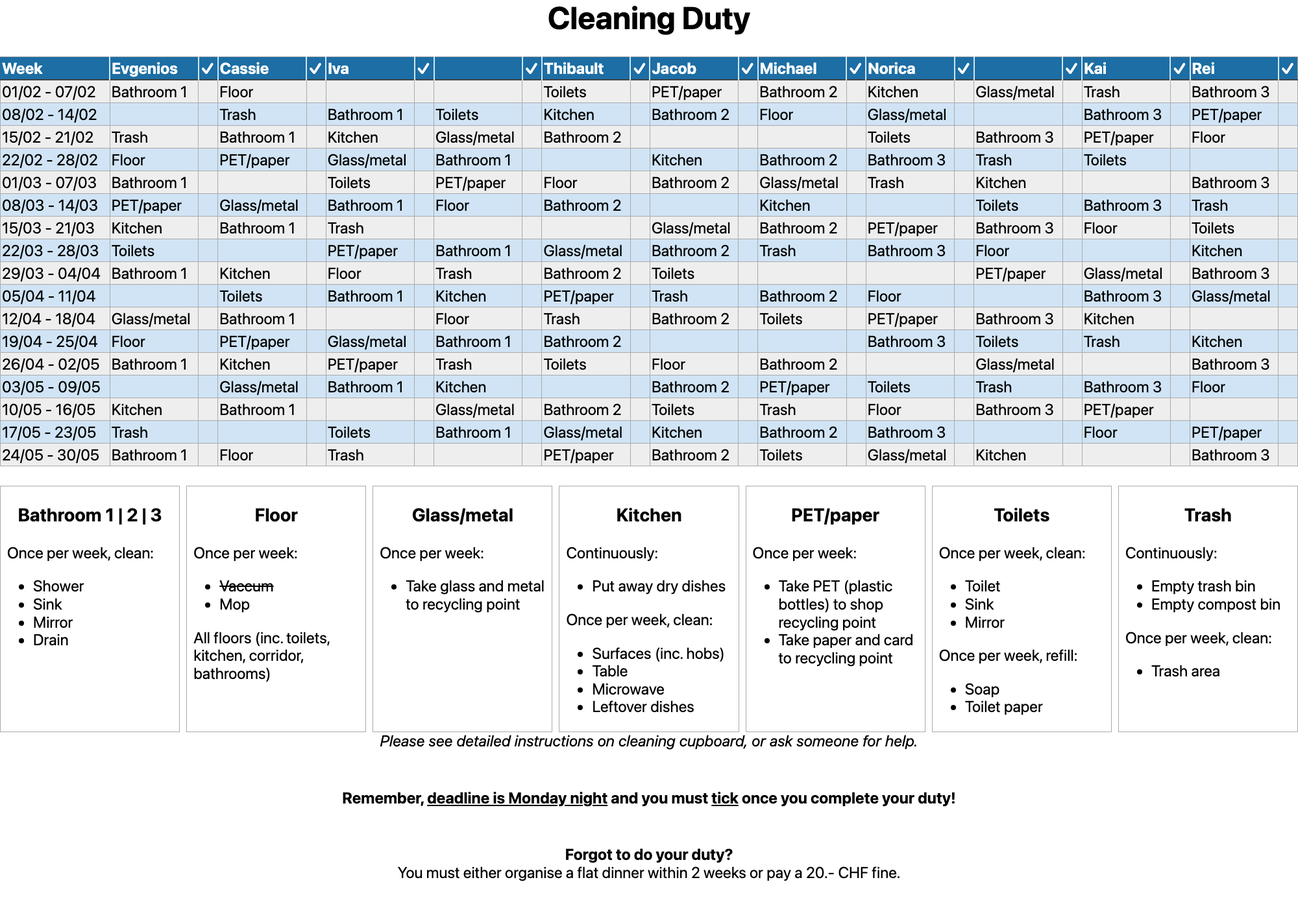
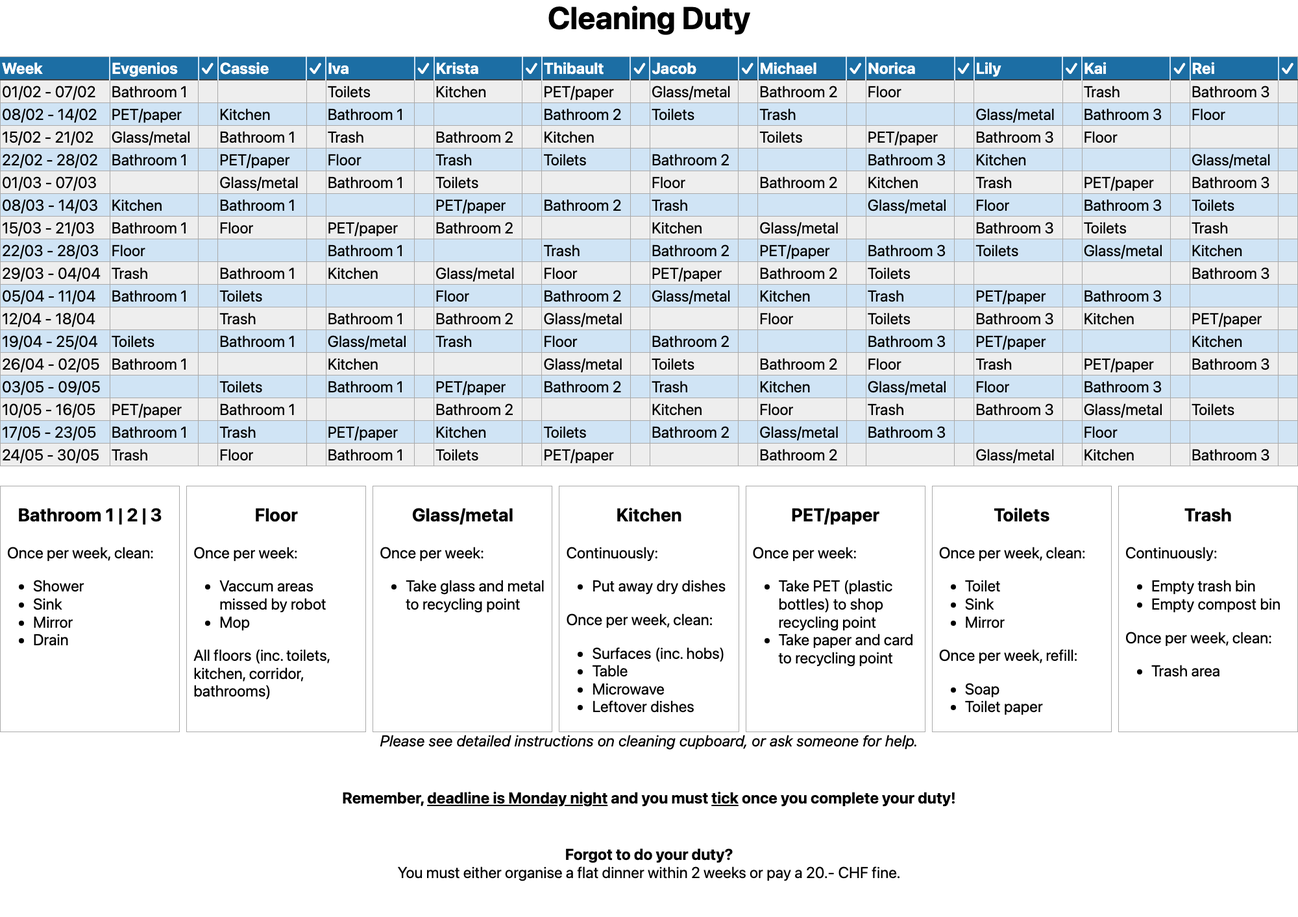
Add new flatmates

diff --git a/cleaning_duty.html b/cleaning_duty.html
@@ -4,26 +4,26 @@
 <body>
 <h1>Cleaning Duty</h1><table>
 <thead>
-<tr><th>Week         </th><th>Evgenios   </th><th>✓  </th><th>Cassie     </th><th>✓  </th><th>Iva        </th><th>✓  </th><th>           </th><th>✓  </th><th>Thibault   </th><th>✓  </th><th>Jacob      </th><th>✓  </th><th>Michael    </th><th>✓  </th><th>Norica     </th><th>✓  </th><th>           </th><th>✓  </th><th>Kai        </th><th>✓  </th><th>Rei        </th><th>✓  </th></tr>
+<tr><th>Week         </th><th>Evgenios   </th><th>✓  </th><th>Cassie     </th><th>✓  </th><th>Iva        </th><th>✓  </th><th>Krista     </th><th>✓  </th><th>Thibault   </th><th>✓  </th><th>Jacob      </th><th>✓  </th><th>Michael    </th><th>✓  </th><th>Norica     </th><th>✓  </th><th>Lily       </th><th>✓  </th><th>Kai        </th><th>✓  </th><th>Rei        </th><th>✓  </th></tr>
 </thead>
 <tbody>
-<tr><td>01/02 - 07/02</td><td>Bathroom 1 </td><td>   </td><td>Floor      </td><td>   </td><td>           </td><td>   </td><td>           </td><td>   </td><td>Toilets    </td><td>   </td><td>PET/paper  </td><td>   </td><td>Bathroom 2 </td><td>   </td><td>Kitchen    </td><td>   </td><td>Glass/metal</td><td>   </td><td>Trash      </td><td>   </td><td>Bathroom 3 </td><td>   </td></tr>
-<tr><td>08/02 - 14/02</td><td>           </td><td>   </td><td>Trash      </td><td>   </td><td>Bathroom 1 </td><td>   </td><td>Toilets    </td><td>   </td><td>Kitchen    </td><td>   </td><td>Bathroom 2 </td><td>   </td><td>Floor      </td><td>   </td><td>Glass/metal</td><td>   </td><td>           </td><td>   </td><td>Bathroom 3 </td><td>   </td><td>PET/paper  </td><td>   </td></tr>
-<tr><td>15/02 - 21/02</td><td>Trash      </td><td>   </td><td>Bathroom 1 </td><td>   </td><td>Kitchen    </td><td>   </td><td>Glass/metal</td><td>   </td><td>Bathroom 2 </td><td>   </td><td>           </td><td>   </td><td>           </td><td>   </td><td>Toilets    </td><td>   </td><td>Bathroom 3 </td><td>   </td><td>PET/paper  </td><td>   </td><td>Floor      </td><td>   </td></tr>
-<tr><td>22/02 - 28/02</td><td>Floor      </td><td>   </td><td>PET/paper  </td><td>   </td><td>Glass/metal</td><td>   </td><td>Bathroom 1 </td><td>   </td><td>           </td><td>   </td><td>Kitchen    </td><td>   </td><td>Bathroom 2 </td><td>   </td><td>Bathroom 3 </td><td>   </td><td>Trash      </td><td>   </td><td>Toilets    </td><td>   </td><td>           </td><td>   </td></tr>
-<tr><td>01/03 - 07/03</td><td>Bathroom 1 </td><td>   </td><td>           </td><td>   </td><td>Toilets    </td><td>   </td><td>PET/paper  </td><td>   </td><td>Floor      </td><td>   </td><td>Bathroom 2 </td><td>   </td><td>Glass/metal</td><td>   </td><td>Trash      </td><td>   </td><td>Kitchen    </td><td>   </td><td>           </td><td>   </td><td>Bathroom 3 </td><td>   </td></tr>
-<tr><td>08/03 - 14/03</td><td>PET/paper  </td><td>   </td><td>Glass/metal</td><td>   </td><td>Bathroom 1 </td><td>   </td><td>Floor      </td><td>   </td><td>Bathroom 2 </td><td>   </td><td>           </td><td>   </td><td>Kitchen    </td><td>   </td><td>           </td><td>   </td><td>Toilets    </td><td>   </td><td>Bathroom 3 </td><td>   </td><td>Trash      </td><td>   </td></tr>
-<tr><td>15/03 - 21/03</td><td>Kitchen    </td><td>   </td><td>Bathroom 1 </td><td>   </td><td>Trash      </td><td>   </td><td>           </td><td>   </td><td>           </td><td>   </td><td>Glass/metal</td><td>   </td><td>Bathroom 2 </td><td>   </td><td>PET/paper  </td><td>   </td><td>Bathroom 3 </td><td>   </td><td>Floor      </td><td>   </td><td>Toilets    </td><td>   </td></tr>
-<tr><td>22/03 - 28/03</td><td>Toilets    </td><td>   </td><td>           </td><td>   </td><td>PET/paper  </td><td>   </td><td>Bathroom 1 </td><td>   </td><td>Glass/metal</td><td>   </td><td>Bathroom 2 </td><td>   </td><td>Trash      </td><td>   </td><td>Bathroom 3 </td><td>   </td><td>Floor      </td><td>   </td><td>           </td><td>   </td><td>Kitchen    </td><td>   </td></tr>
-<tr><td>29/03 - 04/04</td><td>Bathroom 1 </td><td>   </td><td>Kitchen    </td><td>   </td><td>Floor      </td><td>   </td><td>Trash      </td><td>   </td><td>Bathroom 2 </td><td>   </td><td>Toilets    </td><td>   </td><td>           </td><td>   </td><td>           </td><td>   </td><td>PET/paper  </td><td>   </td><td>Glass/metal</td><td>   </td><td>Bathroom 3 </td><td>   </td></tr>
-<tr><td>05/04 - 11/04</td><td>           </td><td>   </td><td>Toilets    </td><td>   </td><td>Bathroom 1 </td><td>   </td><td>Kitchen    </td><td>   </td><td>PET/paper  </td><td>   </td><td>Trash      </td><td>   </td><td>Bathroom 2 </td><td>   </td><td>Floor      </td><td>   </td><td>           </td><td>   </td><td>Bathroom 3 </td><td>   </td><td>Glass/metal</td><td>   </td></tr>
-<tr><td>12/04 - 18/04</td><td>Glass/metal</td><td>   </td><td>Bathroom 1 </td><td>   </td><td>           </td><td>   </td><td>Floor      </td><td>   </td><td>Trash      </td><td>   </td><td>Bathroom 2 </td><td>   </td><td>Toilets    </td><td>   </td><td>PET/paper  </td><td>   </td><td>Bathroom 3 </td><td>   </td><td>Kitchen    </td><td>   </td><td>           </td><td>   </td></tr>
-<tr><td>19/04 - 25/04</td><td>Floor      </td><td>   </td><td>PET/paper  </td><td>   </td><td>Glass/metal</td><td>   </td><td>Bathroom 1 </td><td>   </td><td>Bathroom 2 </td><td>   </td><td>           </td><td>   </td><td>           </td><td>   </td><td>Bathroom 3 </td><td>   </td><td>Toilets    </td><td>   </td><td>Trash      </td><td>   </td><td>Kitchen    </td><td>   </td></tr>
-<tr><td>26/04 - 02/05</td><td>Bathroom 1 </td><td>   </td><td>Kitchen    </td><td>   </td><td>PET/paper  </td><td>   </td><td>Trash      </td><td>   </td><td>Toilets    </td><td>   </td><td>Floor      </td><td>   </td><td>Bathroom 2 </td><td>   </td><td>           </td><td>   </td><td>Glass/metal</td><td>   </td><td>           </td><td>   </td><td>Bathroom 3 </td><td>   </td></tr>
-<tr><td>03/05 - 09/05</td><td>           </td><td>   </td><td>Glass/metal</td><td>   </td><td>Bathroom 1 </td><td>   </td><td>Kitchen    </td><td>   </td><td>           </td><td>   </td><td>Bathroom 2 </td><td>   </td><td>PET/paper  </td><td>   </td><td>Toilets    </td><td>   </td><td>Trash      </td><td>   </td><td>Bathroom 3 </td><td>   </td><td>Floor      </td><td>   </td></tr>
-<tr><td>10/05 - 16/05</td><td>Kitchen    </td><td>   </td><td>Bathroom 1 </td><td>   </td><td>           </td><td>   </td><td>Glass/metal</td><td>   </td><td>Bathroom 2 </td><td>   </td><td>Toilets    </td><td>   </td><td>Trash      </td><td>   </td><td>Floor      </td><td>   </td><td>Bathroom 3 </td><td>   </td><td>PET/paper  </td><td>   </td><td>           </td><td>   </td></tr>
-<tr><td>17/05 - 23/05</td><td>Trash      </td><td>   </td><td>           </td><td>   </td><td>Toilets    </td><td>   </td><td>Bathroom 1 </td><td>   </td><td>Glass/metal</td><td>   </td><td>Kitchen    </td><td>   </td><td>Bathroom 2 </td><td>   </td><td>Bathroom 3 </td><td>   </td><td>           </td><td>   </td><td>Floor      </td><td>   </td><td>PET/paper  </td><td>   </td></tr>
-<tr><td>24/05 - 30/05</td><td>Bathroom 1 </td><td>   </td><td>Floor      </td><td>   </td><td>Trash      </td><td>   </td><td>           </td><td>   </td><td>PET/paper  </td><td>   </td><td>Bathroom 2 </td><td>   </td><td>Toilets    </td><td>   </td><td>Glass/metal</td><td>   </td><td>Kitchen    </td><td>   </td><td>           </td><td>   </td><td>Bathroom 3 </td><td>   </td></tr>
+<tr><td>01/02 - 07/02</td><td>Bathroom 1 </td><td>   </td><td>           </td><td>   </td><td>Toilets    </td><td>   </td><td>Kitchen    </td><td>   </td><td>PET/paper  </td><td>   </td><td>Glass/metal</td><td>   </td><td>Bathroom 2 </td><td>   </td><td>Floor      </td><td>   </td><td>           </td><td>   </td><td>Trash      </td><td>   </td><td>Bathroom 3 </td><td>   </td></tr>
+<tr><td>08/02 - 14/02</td><td>PET/paper  </td><td>   </td><td>Kitchen    </td><td>   </td><td>Bathroom 1 </td><td>   </td><td>           </td><td>   </td><td>Bathroom 2 </td><td>   </td><td>Toilets    </td><td>   </td><td>Trash      </td><td>   </td><td>           </td><td>   </td><td>Glass/metal</td><td>   </td><td>Bathroom 3 </td><td>   </td><td>Floor      </td><td>   </td></tr>
+<tr><td>15/02 - 21/02</td><td>Glass/metal</td><td>   </td><td>Bathroom 1 </td><td>   </td><td>Trash      </td><td>   </td><td>Bathroom 2 </td><td>   </td><td>Kitchen    </td><td>   </td><td>           </td><td>   </td><td>Toilets    </td><td>   </td><td>PET/paper  </td><td>   </td><td>Bathroom 3 </td><td>   </td><td>Floor      </td><td>   </td><td>           </td><td>   </td></tr>
+<tr><td>22/02 - 28/02</td><td>Bathroom 1 </td><td>   </td><td>PET/paper  </td><td>   </td><td>Floor      </td><td>   </td><td>Trash      </td><td>   </td><td>Toilets    </td><td>   </td><td>Bathroom 2 </td><td>   </td><td>           </td><td>   </td><td>Bathroom 3 </td><td>   </td><td>Kitchen    </td><td>   </td><td>           </td><td>   </td><td>Glass/metal</td><td>   </td></tr>
+<tr><td>01/03 - 07/03</td><td>           </td><td>   </td><td>Glass/metal</td><td>   </td><td>Bathroom 1 </td><td>   </td><td>Toilets    </td><td>   </td><td>           </td><td>   </td><td>Floor      </td><td>   </td><td>Bathroom 2 </td><td>   </td><td>Kitchen    </td><td>   </td><td>Trash      </td><td>   </td><td>PET/paper  </td><td>   </td><td>Bathroom 3 </td><td>   </td></tr>
+<tr><td>08/03 - 14/03</td><td>Kitchen    </td><td>   </td><td>Bathroom 1 </td><td>   </td><td>           </td><td>   </td><td>PET/paper  </td><td>   </td><td>Bathroom 2 </td><td>   </td><td>Trash      </td><td>   </td><td>           </td><td>   </td><td>Glass/metal</td><td>   </td><td>Floor      </td><td>   </td><td>Bathroom 3 </td><td>   </td><td>Toilets    </td><td>   </td></tr>
+<tr><td>15/03 - 21/03</td><td>Bathroom 1 </td><td>   </td><td>Floor      </td><td>   </td><td>PET/paper  </td><td>   </td><td>Bathroom 2 </td><td>   </td><td>           </td><td>   </td><td>Kitchen    </td><td>   </td><td>Glass/metal</td><td>   </td><td>           </td><td>   </td><td>Bathroom 3 </td><td>   </td><td>Toilets    </td><td>   </td><td>Trash      </td><td>   </td></tr>
+<tr><td>22/03 - 28/03</td><td>Floor      </td><td>   </td><td>           </td><td>   </td><td>Bathroom 1 </td><td>   </td><td>           </td><td>   </td><td>Trash      </td><td>   </td><td>Bathroom 2 </td><td>   </td><td>PET/paper  </td><td>   </td><td>Bathroom 3 </td><td>   </td><td>Toilets    </td><td>   </td><td>Glass/metal</td><td>   </td><td>Kitchen    </td><td>   </td></tr>
+<tr><td>29/03 - 04/04</td><td>Trash      </td><td>   </td><td>Bathroom 1 </td><td>   </td><td>Kitchen    </td><td>   </td><td>Glass/metal</td><td>   </td><td>Floor      </td><td>   </td><td>PET/paper  </td><td>   </td><td>Bathroom 2 </td><td>   </td><td>Toilets    </td><td>   </td><td>           </td><td>   </td><td>           </td><td>   </td><td>Bathroom 3 </td><td>   </td></tr>
+<tr><td>05/04 - 11/04</td><td>Bathroom 1 </td><td>   </td><td>Toilets    </td><td>   </td><td>           </td><td>   </td><td>Floor      </td><td>   </td><td>Bathroom 2 </td><td>   </td><td>Glass/metal</td><td>   </td><td>Kitchen    </td><td>   </td><td>Trash      </td><td>   </td><td>PET/paper  </td><td>   </td><td>Bathroom 3 </td><td>   </td><td>           </td><td>   </td></tr>
+<tr><td>12/04 - 18/04</td><td>           </td><td>   </td><td>Trash      </td><td>   </td><td>Bathroom 1 </td><td>   </td><td>Bathroom 2 </td><td>   </td><td>Glass/metal</td><td>   </td><td>           </td><td>   </td><td>Floor      </td><td>   </td><td>Toilets    </td><td>   </td><td>Bathroom 3 </td><td>   </td><td>Kitchen    </td><td>   </td><td>PET/paper  </td><td>   </td></tr>
+<tr><td>19/04 - 25/04</td><td>Toilets    </td><td>   </td><td>Bathroom 1 </td><td>   </td><td>Glass/metal</td><td>   </td><td>Trash      </td><td>   </td><td>Floor      </td><td>   </td><td>Bathroom 2 </td><td>   </td><td>           </td><td>   </td><td>Bathroom 3 </td><td>   </td><td>PET/paper  </td><td>   </td><td>           </td><td>   </td><td>Kitchen    </td><td>   </td></tr>
+<tr><td>26/04 - 02/05</td><td>Bathroom 1 </td><td>   </td><td>           </td><td>   </td><td>Kitchen    </td><td>   </td><td>           </td><td>   </td><td>Glass/metal</td><td>   </td><td>Toilets    </td><td>   </td><td>Bathroom 2 </td><td>   </td><td>Floor      </td><td>   </td><td>Trash      </td><td>   </td><td>PET/paper  </td><td>   </td><td>Bathroom 3 </td><td>   </td></tr>
+<tr><td>03/05 - 09/05</td><td>           </td><td>   </td><td>Toilets    </td><td>   </td><td>Bathroom 1 </td><td>   </td><td>PET/paper  </td><td>   </td><td>Bathroom 2 </td><td>   </td><td>Trash      </td><td>   </td><td>Kitchen    </td><td>   </td><td>Glass/metal</td><td>   </td><td>Floor      </td><td>   </td><td>Bathroom 3 </td><td>   </td><td>           </td><td>   </td></tr>
+<tr><td>10/05 - 16/05</td><td>PET/paper  </td><td>   </td><td>Bathroom 1 </td><td>   </td><td>           </td><td>   </td><td>Bathroom 2 </td><td>   </td><td>           </td><td>   </td><td>Kitchen    </td><td>   </td><td>Floor      </td><td>   </td><td>Trash      </td><td>   </td><td>Bathroom 3 </td><td>   </td><td>Glass/metal</td><td>   </td><td>Toilets    </td><td>   </td></tr>
+<tr><td>17/05 - 23/05</td><td>Bathroom 1 </td><td>   </td><td>Trash      </td><td>   </td><td>PET/paper  </td><td>   </td><td>Kitchen    </td><td>   </td><td>Toilets    </td><td>   </td><td>Bathroom 2 </td><td>   </td><td>Glass/metal</td><td>   </td><td>Bathroom 3 </td><td>   </td><td>           </td><td>   </td><td>Floor      </td><td>   </td><td>           </td><td>   </td></tr>
+<tr><td>24/05 - 30/05</td><td>Trash      </td><td>   </td><td>Floor      </td><td>   </td><td>Bathroom 1 </td><td>   </td><td>Toilets    </td><td>   </td><td>PET/paper  </td><td>   </td><td>           </td><td>   </td><td>Bathroom 2 </td><td>   </td><td>           </td><td>   </td><td>Glass/metal</td><td>   </td><td>Kitchen    </td><td>   </td><td>Bathroom 3 </td><td>   </td></tr>
 </tbody>
 </table>
 <div class="container">
@@ -41,7 +41,7 @@
 		<h3>Floor</h3>
 		<p>Once per week:</p>
 		<ul>
-			<li><s>Vaccum</s></li>
+			<li>Vaccum areas missed by robot</li>
 			<li>Mop</li>
 		</ul>
 		<p>All floors (inc. toilets, kitchen, corridor, bathrooms)</p>

diff --git a/html/table.html b/html/table.html
@@ -1,24 +1,24 @@
 <table>
 <thead>
-<tr><th>Week         </th><th>Evgenios   </th><th>✓  </th><th>Cassie     </th><th>✓  </th><th>Iva        </th><th>✓  </th><th>           </th><th>✓  </th><th>Thibault   </th><th>✓  </th><th>Jacob      </th><th>✓  </th><th>Michael    </th><th>✓  </th><th>Norica     </th><th>✓  </th><th>           </th><th>✓  </th><th>Kai        </th><th>✓  </th><th>Rei        </th><th>✓  </th></tr>
+<tr><th>Week         </th><th>Evgenios   </th><th>✓  </th><th>Cassie     </th><th>✓  </th><th>Iva        </th><th>✓  </th><th>Krista     </th><th>✓  </th><th>Thibault   </th><th>✓  </th><th>Jacob      </th><th>✓  </th><th>Michael    </th><th>✓  </th><th>Norica     </th><th>✓  </th><th>Lily       </th><th>✓  </th><th>Kai        </th><th>✓  </th><th>Rei        </th><th>✓  </th></tr>
 </thead>
 <tbody>
-<tr><td>01/02 - 07/02</td><td>Bathroom 1 </td><td>   </td><td>Floor      </td><td>   </td><td>           </td><td>   </td><td>           </td><td>   </td><td>Toilets    </td><td>   </td><td>PET/paper  </td><td>   </td><td>Bathroom 2 </td><td>   </td><td>Kitchen    </td><td>   </td><td>Glass/metal</td><td>   </td><td>Trash      </td><td>   </td><td>Bathroom 3 </td><td>   </td></tr>
-<tr><td>08/02 - 14/02</td><td>           </td><td>   </td><td>Trash      </td><td>   </td><td>Bathroom 1 </td><td>   </td><td>Toilets    </td><td>   </td><td>Kitchen    </td><td>   </td><td>Bathroom 2 </td><td>   </td><td>Floor      </td><td>   </td><td>Glass/metal</td><td>   </td><td>           </td><td>   </td><td>Bathroom 3 </td><td>   </td><td>PET/paper  </td><td>   </td></tr>
-<tr><td>15/02 - 21/02</td><td>Trash      </td><td>   </td><td>Bathroom 1 </td><td>   </td><td>Kitchen    </td><td>   </td><td>Glass/metal</td><td>   </td><td>Bathroom 2 </td><td>   </td><td>           </td><td>   </td><td>           </td><td>   </td><td>Toilets    </td><td>   </td><td>Bathroom 3 </td><td>   </td><td>PET/paper  </td><td>   </td><td>Floor      </td><td>   </td></tr>
-<tr><td>22/02 - 28/02</td><td>Floor      </td><td>   </td><td>PET/paper  </td><td>   </td><td>Glass/metal</td><td>   </td><td>Bathroom 1 </td><td>   </td><td>           </td><td>   </td><td>Kitchen    </td><td>   </td><td>Bathroom 2 </td><td>   </td><td>Bathroom 3 </td><td>   </td><td>Trash      </td><td>   </td><td>Toilets    </td><td>   </td><td>           </td><td>   </td></tr>
-<tr><td>01/03 - 07/03</td><td>Bathroom 1 </td><td>   </td><td>           </td><td>   </td><td>Toilets    </td><td>   </td><td>PET/paper  </td><td>   </td><td>Floor      </td><td>   </td><td>Bathroom 2 </td><td>   </td><td>Glass/metal</td><td>   </td><td>Trash      </td><td>   </td><td>Kitchen    </td><td>   </td><td>           </td><td>   </td><td>Bathroom 3 </td><td>   </td></tr>
-<tr><td>08/03 - 14/03</td><td>PET/paper  </td><td>   </td><td>Glass/metal</td><td>   </td><td>Bathroom 1 </td><td>   </td><td>Floor      </td><td>   </td><td>Bathroom 2 </td><td>   </td><td>           </td><td>   </td><td>Kitchen    </td><td>   </td><td>           </td><td>   </td><td>Toilets    </td><td>   </td><td>Bathroom 3 </td><td>   </td><td>Trash      </td><td>   </td></tr>
-<tr><td>15/03 - 21/03</td><td>Kitchen    </td><td>   </td><td>Bathroom 1 </td><td>   </td><td>Trash      </td><td>   </td><td>           </td><td>   </td><td>           </td><td>   </td><td>Glass/metal</td><td>   </td><td>Bathroom 2 </td><td>   </td><td>PET/paper  </td><td>   </td><td>Bathroom 3 </td><td>   </td><td>Floor      </td><td>   </td><td>Toilets    </td><td>   </td></tr>
-<tr><td>22/03 - 28/03</td><td>Toilets    </td><td>   </td><td>           </td><td>   </td><td>PET/paper  </td><td>   </td><td>Bathroom 1 </td><td>   </td><td>Glass/metal</td><td>   </td><td>Bathroom 2 </td><td>   </td><td>Trash      </td><td>   </td><td>Bathroom 3 </td><td>   </td><td>Floor      </td><td>   </td><td>           </td><td>   </td><td>Kitchen    </td><td>   </td></tr>
-<tr><td>29/03 - 04/04</td><td>Bathroom 1 </td><td>   </td><td>Kitchen    </td><td>   </td><td>Floor      </td><td>   </td><td>Trash      </td><td>   </td><td>Bathroom 2 </td><td>   </td><td>Toilets    </td><td>   </td><td>           </td><td>   </td><td>           </td><td>   </td><td>PET/paper  </td><td>   </td><td>Glass/metal</td><td>   </td><td>Bathroom 3 </td><td>   </td></tr>
-<tr><td>05/04 - 11/04</td><td>           </td><td>   </td><td>Toilets    </td><td>   </td><td>Bathroom 1 </td><td>   </td><td>Kitchen    </td><td>   </td><td>PET/paper  </td><td>   </td><td>Trash      </td><td>   </td><td>Bathroom 2 </td><td>   </td><td>Floor      </td><td>   </td><td>           </td><td>   </td><td>Bathroom 3 </td><td>   </td><td>Glass/metal</td><td>   </td></tr>
-<tr><td>12/04 - 18/04</td><td>Glass/metal</td><td>   </td><td>Bathroom 1 </td><td>   </td><td>           </td><td>   </td><td>Floor      </td><td>   </td><td>Trash      </td><td>   </td><td>Bathroom 2 </td><td>   </td><td>Toilets    </td><td>   </td><td>PET/paper  </td><td>   </td><td>Bathroom 3 </td><td>   </td><td>Kitchen    </td><td>   </td><td>           </td><td>   </td></tr>
-<tr><td>19/04 - 25/04</td><td>Floor      </td><td>   </td><td>PET/paper  </td><td>   </td><td>Glass/metal</td><td>   </td><td>Bathroom 1 </td><td>   </td><td>Bathroom 2 </td><td>   </td><td>           </td><td>   </td><td>           </td><td>   </td><td>Bathroom 3 </td><td>   </td><td>Toilets    </td><td>   </td><td>Trash      </td><td>   </td><td>Kitchen    </td><td>   </td></tr>
-<tr><td>26/04 - 02/05</td><td>Bathroom 1 </td><td>   </td><td>Kitchen    </td><td>   </td><td>PET/paper  </td><td>   </td><td>Trash      </td><td>   </td><td>Toilets    </td><td>   </td><td>Floor      </td><td>   </td><td>Bathroom 2 </td><td>   </td><td>           </td><td>   </td><td>Glass/metal</td><td>   </td><td>           </td><td>   </td><td>Bathroom 3 </td><td>   </td></tr>
-<tr><td>03/05 - 09/05</td><td>           </td><td>   </td><td>Glass/metal</td><td>   </td><td>Bathroom 1 </td><td>   </td><td>Kitchen    </td><td>   </td><td>           </td><td>   </td><td>Bathroom 2 </td><td>   </td><td>PET/paper  </td><td>   </td><td>Toilets    </td><td>   </td><td>Trash      </td><td>   </td><td>Bathroom 3 </td><td>   </td><td>Floor      </td><td>   </td></tr>
-<tr><td>10/05 - 16/05</td><td>Kitchen    </td><td>   </td><td>Bathroom 1 </td><td>   </td><td>           </td><td>   </td><td>Glass/metal</td><td>   </td><td>Bathroom 2 </td><td>   </td><td>Toilets    </td><td>   </td><td>Trash      </td><td>   </td><td>Floor      </td><td>   </td><td>Bathroom 3 </td><td>   </td><td>PET/paper  </td><td>   </td><td>           </td><td>   </td></tr>
-<tr><td>17/05 - 23/05</td><td>Trash      </td><td>   </td><td>           </td><td>   </td><td>Toilets    </td><td>   </td><td>Bathroom 1 </td><td>   </td><td>Glass/metal</td><td>   </td><td>Kitchen    </td><td>   </td><td>Bathroom 2 </td><td>   </td><td>Bathroom 3 </td><td>   </td><td>           </td><td>   </td><td>Floor      </td><td>   </td><td>PET/paper  </td><td>   </td></tr>
-<tr><td>24/05 - 30/05</td><td>Bathroom 1 </td><td>   </td><td>Floor      </td><td>   </td><td>Trash      </td><td>   </td><td>           </td><td>   </td><td>PET/paper  </td><td>   </td><td>Bathroom 2 </td><td>   </td><td>Toilets    </td><td>   </td><td>Glass/metal</td><td>   </td><td>Kitchen    </td><td>   </td><td>           </td><td>   </td><td>Bathroom 3 </td><td>   </td></tr>
+<tr><td>01/02 - 07/02</td><td>Bathroom 1 </td><td>   </td><td>           </td><td>   </td><td>Toilets    </td><td>   </td><td>Kitchen    </td><td>   </td><td>PET/paper  </td><td>   </td><td>Glass/metal</td><td>   </td><td>Bathroom 2 </td><td>   </td><td>Floor      </td><td>   </td><td>           </td><td>   </td><td>Trash      </td><td>   </td><td>Bathroom 3 </td><td>   </td></tr>
+<tr><td>08/02 - 14/02</td><td>PET/paper  </td><td>   </td><td>Kitchen    </td><td>   </td><td>Bathroom 1 </td><td>   </td><td>           </td><td>   </td><td>Bathroom 2 </td><td>   </td><td>Toilets    </td><td>   </td><td>Trash      </td><td>   </td><td>           </td><td>   </td><td>Glass/metal</td><td>   </td><td>Bathroom 3 </td><td>   </td><td>Floor      </td><td>   </td></tr>
+<tr><td>15/02 - 21/02</td><td>Glass/metal</td><td>   </td><td>Bathroom 1 </td><td>   </td><td>Trash      </td><td>   </td><td>Bathroom 2 </td><td>   </td><td>Kitchen    </td><td>   </td><td>           </td><td>   </td><td>Toilets    </td><td>   </td><td>PET/paper  </td><td>   </td><td>Bathroom 3 </td><td>   </td><td>Floor      </td><td>   </td><td>           </td><td>   </td></tr>
+<tr><td>22/02 - 28/02</td><td>Bathroom 1 </td><td>   </td><td>PET/paper  </td><td>   </td><td>Floor      </td><td>   </td><td>Trash      </td><td>   </td><td>Toilets    </td><td>   </td><td>Bathroom 2 </td><td>   </td><td>           </td><td>   </td><td>Bathroom 3 </td><td>   </td><td>Kitchen    </td><td>   </td><td>           </td><td>   </td><td>Glass/metal</td><td>   </td></tr>
+<tr><td>01/03 - 07/03</td><td>           </td><td>   </td><td>Glass/metal</td><td>   </td><td>Bathroom 1 </td><td>   </td><td>Toilets    </td><td>   </td><td>           </td><td>   </td><td>Floor      </td><td>   </td><td>Bathroom 2 </td><td>   </td><td>Kitchen    </td><td>   </td><td>Trash      </td><td>   </td><td>PET/paper  </td><td>   </td><td>Bathroom 3 </td><td>   </td></tr>
+<tr><td>08/03 - 14/03</td><td>Kitchen    </td><td>   </td><td>Bathroom 1 </td><td>   </td><td>           </td><td>   </td><td>PET/paper  </td><td>   </td><td>Bathroom 2 </td><td>   </td><td>Trash      </td><td>   </td><td>           </td><td>   </td><td>Glass/metal</td><td>   </td><td>Floor      </td><td>   </td><td>Bathroom 3 </td><td>   </td><td>Toilets    </td><td>   </td></tr>
+<tr><td>15/03 - 21/03</td><td>Bathroom 1 </td><td>   </td><td>Floor      </td><td>   </td><td>PET/paper  </td><td>   </td><td>Bathroom 2 </td><td>   </td><td>           </td><td>   </td><td>Kitchen    </td><td>   </td><td>Glass/metal</td><td>   </td><td>           </td><td>   </td><td>Bathroom 3 </td><td>   </td><td>Toilets    </td><td>   </td><td>Trash      </td><td>   </td></tr>
+<tr><td>22/03 - 28/03</td><td>Floor      </td><td>   </td><td>           </td><td>   </td><td>Bathroom 1 </td><td>   </td><td>           </td><td>   </td><td>Trash      </td><td>   </td><td>Bathroom 2 </td><td>   </td><td>PET/paper  </td><td>   </td><td>Bathroom 3 </td><td>   </td><td>Toilets    </td><td>   </td><td>Glass/metal</td><td>   </td><td>Kitchen    </td><td>   </td></tr>
+<tr><td>29/03 - 04/04</td><td>Trash      </td><td>   </td><td>Bathroom 1 </td><td>   </td><td>Kitchen    </td><td>   </td><td>Glass/metal</td><td>   </td><td>Floor      </td><td>   </td><td>PET/paper  </td><td>   </td><td>Bathroom 2 </td><td>   </td><td>Toilets    </td><td>   </td><td>           </td><td>   </td><td>           </td><td>   </td><td>Bathroom 3 </td><td>   </td></tr>
+<tr><td>05/04 - 11/04</td><td>Bathroom 1 </td><td>   </td><td>Toilets    </td><td>   </td><td>           </td><td>   </td><td>Floor      </td><td>   </td><td>Bathroom 2 </td><td>   </td><td>Glass/metal</td><td>   </td><td>Kitchen    </td><td>   </td><td>Trash      </td><td>   </td><td>PET/paper  </td><td>   </td><td>Bathroom 3 </td><td>   </td><td>           </td><td>   </td></tr>
+<tr><td>12/04 - 18/04</td><td>           </td><td>   </td><td>Trash      </td><td>   </td><td>Bathroom 1 </td><td>   </td><td>Bathroom 2 </td><td>   </td><td>Glass/metal</td><td>   </td><td>           </td><td>   </td><td>Floor      </td><td>   </td><td>Toilets    </td><td>   </td><td>Bathroom 3 </td><td>   </td><td>Kitchen    </td><td>   </td><td>PET/paper  </td><td>   </td></tr>
+<tr><td>19/04 - 25/04</td><td>Toilets    </td><td>   </td><td>Bathroom 1 </td><td>   </td><td>Glass/metal</td><td>   </td><td>Trash      </td><td>   </td><td>Floor      </td><td>   </td><td>Bathroom 2 </td><td>   </td><td>           </td><td>   </td><td>Bathroom 3 </td><td>   </td><td>PET/paper  </td><td>   </td><td>           </td><td>   </td><td>Kitchen    </td><td>   </td></tr>
+<tr><td>26/04 - 02/05</td><td>Bathroom 1 </td><td>   </td><td>           </td><td>   </td><td>Kitchen    </td><td>   </td><td>           </td><td>   </td><td>Glass/metal</td><td>   </td><td>Toilets    </td><td>   </td><td>Bathroom 2 </td><td>   </td><td>Floor      </td><td>   </td><td>Trash      </td><td>   </td><td>PET/paper  </td><td>   </td><td>Bathroom 3 </td><td>   </td></tr>
+<tr><td>03/05 - 09/05</td><td>           </td><td>   </td><td>Toilets    </td><td>   </td><td>Bathroom 1 </td><td>   </td><td>PET/paper  </td><td>   </td><td>Bathroom 2 </td><td>   </td><td>Trash      </td><td>   </td><td>Kitchen    </td><td>   </td><td>Glass/metal</td><td>   </td><td>Floor      </td><td>   </td><td>Bathroom 3 </td><td>   </td><td>           </td><td>   </td></tr>
+<tr><td>10/05 - 16/05</td><td>PET/paper  </td><td>   </td><td>Bathroom 1 </td><td>   </td><td>           </td><td>   </td><td>Bathroom 2 </td><td>   </td><td>           </td><td>   </td><td>Kitchen    </td><td>   </td><td>Floor      </td><td>   </td><td>Trash      </td><td>   </td><td>Bathroom 3 </td><td>   </td><td>Glass/metal</td><td>   </td><td>Toilets    </td><td>   </td></tr>
+<tr><td>17/05 - 23/05</td><td>Bathroom 1 </td><td>   </td><td>Trash      </td><td>   </td><td>PET/paper  </td><td>   </td><td>Kitchen    </td><td>   </td><td>Toilets    </td><td>   </td><td>Bathroom 2 </td><td>   </td><td>Glass/metal</td><td>   </td><td>Bathroom 3 </td><td>   </td><td>           </td><td>   </td><td>Floor      </td><td>   </td><td>           </td><td>   </td></tr>
+<tr><td>24/05 - 30/05</td><td>Trash      </td><td>   </td><td>Floor      </td><td>   </td><td>Bathroom 1 </td><td>   </td><td>Toilets    </td><td>   </td><td>PET/paper  </td><td>   </td><td>           </td><td>   </td><td>Bathroom 2 </td><td>   </td><td>           </td><td>   </td><td>Glass/metal</td><td>   </td><td>Kitchen    </td><td>   </td><td>Bathroom 3 </td><td>   </td></tr>
 </tbody>
 </table>

diff --git a/html/end.html b/html/end.html
@@ -13,7 +13,7 @@
 		<h3>Floor</h3>
 		<p>Once per week:</p>
 		<ul>
-			<li><s>Vaccum</s></li>
+			<li>Vaccum areas missed by robot</li>
 			<li>Mop</li>
 		</ul>
 		<p>All floors (inc. toilets, kitchen, corridor, bathrooms)</p>

diff --git a/generate.py b/generate.py
@@ -8,8 +8,8 @@ from datetime import date
 from datetime import timedelta
 
 n_weeks = 17
-names = ["Evgenios", "Cassie", "Iva", " ", "Thibault", "Jacob", "Michael", "Norica", " ", "Kai", "Rei"]
-bathrooms = [[0, 1, 2, 3], [4, 5, 6], [7, 8, 9, 10]]
+names = ["Evgenios", "Cassie", "Iva", "Krista", "Thibault", "Jacob", "Michael", "Norica", "Lily", "Kai", "Rei"]
+bathrooms = [[0, 1, 2], [3, 4, 5, 6], [7, 8, 9, 10]]
 tasks = ["Toilets", "Kitchen", "PET/paper", "Glass/metal", "Floor", "Trash"]
 first_day = (1, 2, 2022)
 
